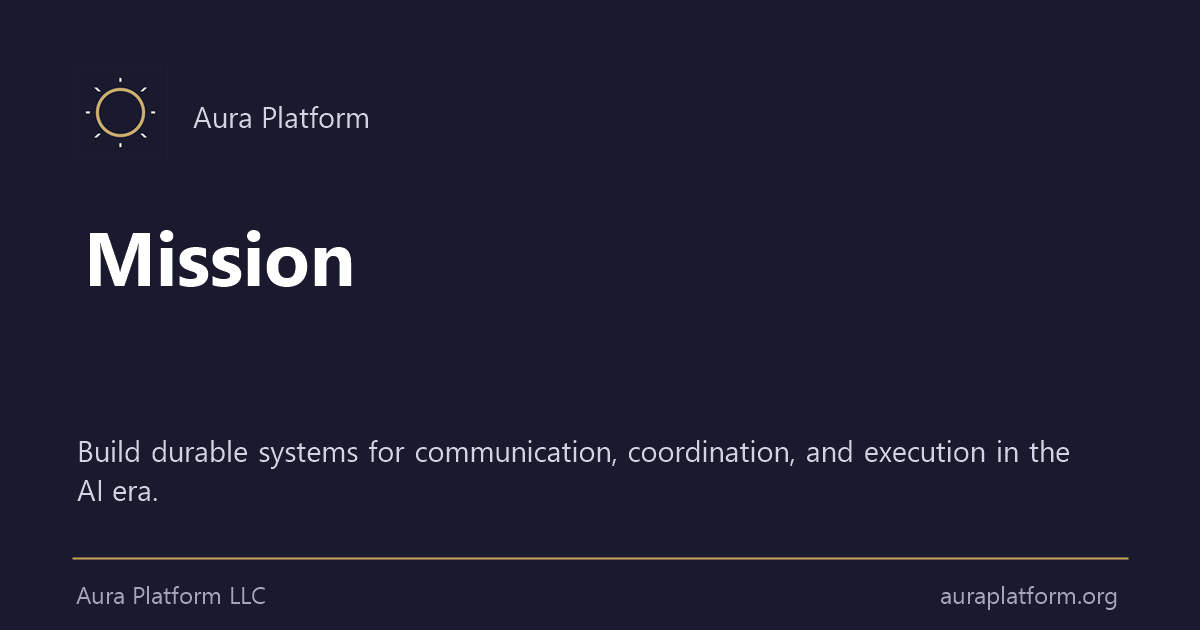
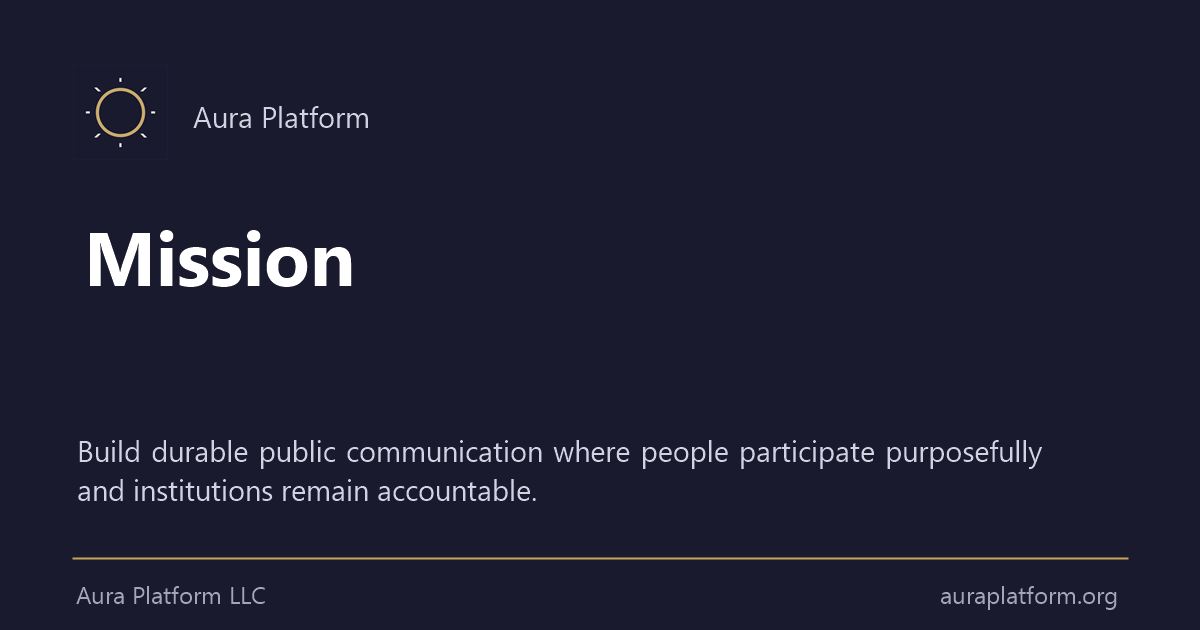
Say the mission once, and route public content to its own metadata
TWO THINGS, BOTH ABOUT A PAGE DISAGREEING WITH ITSELF.

── ONE MISSION SENTENCE ──────────────────────────────────────────────

/mission served one mission sentence in its metadata and a different one
in its social card picture. A third lived in the page hero, and the
committed card had been rendered from that one, so the page and its own
preview agreed with each other while both disagreed with the metadata
beside them. A fourth copy sat in a golden test, which would have kept a
superseded wording in the repository looking approved.

Nothing caught it because a mission sentence is prose, living in a Dart
string, a PowerShell string, an image and a governance document -- four
files no single check had read together.

Founder ruling, 2026-09-05, rejecting both circulating wordings: the
generic-technology one expressed no product identity, and the
institution-first one contradicted the public-first causal doctrine.
Frozen in their place, and now stated verbatim everywhere:

  Build durable public communication where people participate
  purposefully and institutions remain accountable.

Authority: representation/inventory/PRODUCT_IDENTITY_CANON.md, Company
Mission. Enforced by test/doctrine/mission_sentence_gate_test.dart,
which checks every surface, refuses both rejected wordings anywhere in
lib/tool/web/test, and reads the canon itself when the canon is
reachable. It is what found the golden.

── PUBLIC CONTENT ROUTES REACH THE RENDERER ──────────────────────────
[…]

Changed region(s): [[0.0617, 0.6937, 0.8942, 0.8143], [0.1233, 0.6937, 0.185, 0.7238]]

diff --git a/test/doctrine/mission_sentence_gate_test.dart b/test/doctrine/mission_sentence_gate_test.dart
@@ -1,0 +1,138 @@
+import 'dart:io';
+
+import 'package:flutter_test/flutter_test.dart';
+
+/// ONE MISSION SENTENCE — hard build failure.
+///
+/// ── WHAT WENT WRONG ─────────────────────────────────────────────────────────
+///
+/// Aura had two mission sentences in production at once, and the `/mission`
+/// route served BOTH: one in its metadata and a different one in its social
+/// card picture. A third lived in the page hero, and the committed card had
+/// been rendered from that one, so the page and its own preview agreed with
+/// each other while both disagreed with the metadata beside them.
+///
+/// Nothing caught it because a mission sentence is prose. It lives in a Dart
+/// string, a PowerShell string, an image, and a governance document — four
+/// files no single check ever read together.
+///
+/// ── THE DECISION ────────────────────────────────────────────────────────────
+///
+/// Founder ruling, 2026-09-05: both circulating wordings rejected. The
+/// generic-technology one ("durable systems for communication, coordination,
+/// and execution") expressed no product identity at all. The institution-first
+/// one ("the durable substrate institutions run on") contradicted the
+/// public-first causal doctrine. One sentence was frozen in its place:
+///
+///   representation/inventory/PRODUCT_IDENTITY_CANON.md → Company Mission
+///
+/// ── WHAT THIS GUARDS ────────────────────────────────────────────────────────
+///
+/// That every surface stating a mission states THAT sentence, verbatim. Not
+/// paraphrased, not shortened for a card, not expanded for a meta description.
+/// A paraphrase is how a second wording begins, and this file exists because
+/// two of them shipped.
+void main() {
+  /// The frozen sentence. Kept here as the assertion's subject; the canon is
+  /// the authority, and the last test checks this against it when the canon is
+  /// reachable.
+  const sentence =
+      'Build durable public communication where people participate '
+      'purposefully and institutions remain accountable.';
+
+  /// Every in-repository surface that states a mission.
+  ///
+  /// The card PNG is absent on purpose: no test can read a sentence out of an
+  /// image. What is guarded instead is the generator that draws it, and the
+  /// generated file is kept honest by the rule that all four cards are
+  /// rendered from that one script — verified by regenerating and comparing.
+  const surfaces = <String, String>{
+    'lib/screens/mission_screen.dart': 'the mission page hero',
+    'tool/web/generate_route_metadata.dart': 'the /mission route metadata',
+    'tool/web/generate_og_images.ps1': 'the mission social card generator',
+  };
+
+  /// Source wraps a long string across lines. Compare on words, not layout.
+  String flat(String s) => s
+      .replaceAll(RegExp(r"'\s*\n\s*'"), '')
+      .replaceAll(RegExp(r'\s+'), ' ');
+
+  group('mission sentence', () {
+    for (final entry in surfaces.entries) {
+      test('${entry.value} states it verbatim', () {
+        final file = File(entry.key);
+        expect(file.existsSync(), isTrue,
+            reason: '${entry.key} is missing. If it moved, update this gate '
+                'rather than deleting the rule.');
+        expect(
+          flat(file.readAsStringSync()),
+          contains(sentence),
+          reason: '\n[MISSION] ${entry.value} (${entry.key}) does not state '
+              'the frozen mission sentence.\n\n  $sentence\n\n'
+              'Authority: representation/inventory/PRODUCT_IDENTITY_CANON.md, '
+              'Company Mission, frozen by founder decision 2026-09-05. Do not '
+              'paraphrase it to fit — that is how the two rejected wordings '
+              'came to exist.',
+        );
+      });
+    }
+
+    test('neither rejected wording survives anywhere', () {
+      // Both were real, shipped, and each looked reasonable on its own page.
+      // Named here so a copy-paste from an old draft, a screenshot, or a
+      // git history read cannot quietly restore one.
+      const rejected = <String, String>{
+        'durable systems for communication':
+            'generic technology framing; expresses no product identity',
+        'the durable substrate institutions run on':
+            'institution-first; contradicts the public-first causal doctrine',
+      };
+
+      final violations = <String>[];
+      for (final dir in const ['lib', 'tool', 'web', 'test']) {
+        final root = Directory(dir);
+        if (!root.existsSync()) continue;
+        for (final f in root.listSync(recursive: true).whereType<File>()) {
+          if (f.path.endsWith('mission_sentence_gate_test.dart')) continue;
+          if (!const ['.dart', '.ps1', '.html', '.json', '.md']
+              .any(f.path.endsWith)) {
+            continue;
+          }
+          final lower = flat(f.readAsStringSync()).toLowerCase();
+          for (final bad in rejected.entries) {
+            if (lower.contains(bad.key)) {
+              violations.add('  ${f.path}\n      "${bad.key}" — ${bad.value}');
+            }
+          }
+        }
+      }
+
+      expect(violations..sort(), isEmpty,
+          reason: '\n[MISSION] A superseded mission wording is back:\n'
+              '${violations.join('\n')}\n\nThere is one mission sentence:\n'
+              '  $sentence\n');
+    });
+
+    test('the canon says the same thing, where the canon can be read', () {
+      // The authority is a governance document in a SEPARATE repository, which
+      // is present when this runs beside its siblings and absent inside the
+      // web image's build context. So it is checked when reachable and
+      // reported plainly when not, rather than being asserted conditionally in
+      // silence or breaking a build that legitimately cannot see it.
+      final canon = File(
+        '../../representation/inventory/PRODUCT_IDENTITY_CANON.md',
+      );
+      if (!canon.existsSync()) {
+        printOnFailure('canon not reachable from this checkout');
+        return;
+      }
+      expect(
+        flat(canon.readAsStringSync()),
+        contains(sentence),
+        reason: 'The canon no longer carries the sentence this gate enforces. '
+            'The canon wins: change the sentence here to match it, and every '
+            'surface with it.',
+      );
+    });
+  });
+}

diff --git a/tool/web/generate_route_metadata.dart b/tool/web/generate_route_metadata.dart
@@ -34,6 +34,27 @@ import 'dart:io';
 
 const _outputRoot = 'build/web';
 
+/// THE ONE PLACE THE SOCIAL ARTWORK'S VERSION IS DECIDED.
+///
+/// Social platforms cache a scraped image against its URL. The cards are
+/// committed under fixed file names, so correcting the artwork changes nothing
+/// a platform can see: Facebook keeps its copy until somebody re-scrapes, and
+/// LinkedIn holds one for about a week with no purge reachable from outside.
+/// A corrected card then looks like a correction that never shipped -- which
+/// is exactly what would have happened on 2026-09-05, when the default and
+/// mission cards were both replaced under their existing names.
+///
+/// Bump this when the ARTWORK changes. It is not a build hash and must not
+/// become one: a version that changes every deploy makes every platform
+/// re-fetch four unchanged images forever, and tells nobody anything.
+///
+/// Stamped over EVERY image URL in the bundle, the root shell included, so a
+/// bump cannot reach three of four places. `web/index.html` therefore carries
+/// the bare file name and a gate keeps it that way -- a version written there
+/// by hand would be a second authority, silently outranking this one on the
+/// most-served page in the product.
+const _socialAssetVersion = '2';
+
 /// Substitution map keyed by `data-aura-meta` attribute value. Keys
 /// MUST match the `data-aura-meta` markers in `web/index.html`.
 class _RouteMeta {
@@ -79,12 +100,9 @@ class _RouteMeta {
   final String? crawlerVisibleContactEmail;
 
   String get canonicalUrl => 'https://auraplatform.org$path';
-  /// Version-suffixed, matching `web/index.html` and the backend's
-  /// `ShareHtmlService.DEFAULT_OG_IMAGE`. A social platform caches a scraped
-  /// image against its URL, so an artwork change under an unchanged file name
-  /// keeps showing the old card for days -- about a week on LinkedIn, which
-  /// offers no purge. Bump all three together when the artwork changes.
-  String get imageUrl => 'https://auraplatform.org/social/$image?v=2';
+  /// Versioned from [_socialAssetVersion], never by hand.
+  String get imageUrl =>
+      'https://auraplatform.org/social/$image?v=$_socialAssetVersion';
 
   bool get hasCrawlerVisibleContent =>
       (crawlerVisibleHeading ?? '').trim().isNotEmpty;
@@ -110,8 +128,20 @@ const _routes = <_RouteMeta>[
   _RouteMeta(
     path: '/mission',
     title: 'Mission — Aura Platform LLC',
+    // THE CANONICAL MISSION SENTENCE, VERBATIM.
+    //
+    // Authority: representation/inventory/PRODUCT_IDENTITY_CANON.md, Company
+    // Mission, frozen by founder decision 2026-09-05. Two wordings were live
+    // before that and both were rejected — the institution-first one was here,
+    // the generic-technology one was in the mission page hero and the
+    // committed social card. So this route served one sentence in its
+    // metadata and a different one in its picture.
+    //
+    // Not paraphrased and not extended. A meta description that improves on
+    // the sentence is a second sentence.
     description:
-        'Build the durable substrate institutions run on — identity, accountability, continuity, human authority, operational memory — in an era where capability is abundant and continuity is scarce.',
+        'Build durable public communication where people participate '
+        'purposefully and institutions remain accountable.',
     image: 'og-mission.png',
     imageAlt: 'Aura Platform LLC — mission',
   ),
@@ -296,6 +326,20 @@ const _routes = <_RouteMeta>[
   ),
 ];
 
+/// Adds [_socialAssetVersion] to every `/social/` image URL in [html].
+///
+/// Idempotent by construction: any version already present is replaced rather
+/// than appended, so running the build twice cannot produce `?v=2?v=2`, and a
+/// stray hand-written version in the source is corrected rather than
+/// preserved. That is the point -- there is one authority for this value and
+/// it is the constant at the top of this file.
+String _stampSocialAssets(String html) {
+  return html.replaceAllMapped(
+    RegExp(r'(/social/[A-Za-z0-9._-]+\.png)(\?v=[A-Za-z0-9._-]+)?'),
+    (m) => '${m.group(1)}?v=$_socialAssetVersion',
+  );
+}
+
 /// Per-route value to substitute, keyed by `data-aura-meta`.
 Map<String, String> _substitutions(_RouteMeta r) {
   return {
@@ -442,10 +486,23 @@ Future<int> main(List<String> args) async {
     return 2;
   }
 
+  // THE ROOT SHELL IS STAMPED TOO, AND FIRST.
+  //
+  // It is the document every unversioned route is served from, and the one the
+  // backend fetches to render dynamic public routes. Stamping only the route
+  // variants would leave the most-served page pointing at an unversioned image
+  // -- the one URL whose cached copy matters most.
+  final stampedRoot = _stampSocialAssets(canonical);
+  await rootIndex.writeAsString(stampedRoot);
+  stdout.writeln(
+    'generate_route_metadata: stamped social assets in '
+    '$_outputRoot/index.html as v=$_socialAssetVersion.',
+  );
+
   var written = 0;
   for (final route in _routes) {
     final variant = _applySubstitutions(
-      canonical,
+      stampedRoot,
       _substitutions(route),
       route: route,
     );

diff --git a/web/index.html b/web/index.html
@@ -25,30 +25,49 @@
   <meta name="description" data-aura-meta="description" content="Aura is a public-first platform for civic discourse and accountable communication. People take part in purposeful communication that keeps its context, and institutions enter under clear identity, accountable for what they say officially.">
   <link rel="canonical" data-aura-meta="canonical" href="https://auraplatform.org/">
 
-  <meta name="robots" content="index, follow, max-image-preview:large">
+  <!-- SOCIAL IMAGE URLS ARE WRITTEN HERE WITHOUT A VERSION, DELIBERATELY.
+       tool/web/generate_route_metadata.dart stamps `?v=<n>` onto every
+       /social/ image in this file and in every route variant, from one
+       constant. A version typed here by hand would be a second authority for
+       it, on the most-served page in the product, and the two would part
+       company the first time only one was bumped.
+
+       Five more markers than the build-time generator uses, and that is
+       deliberate. A dynamic public route -- /articles/<slug> and its siblings
+       -- is answered by the backend with THIS file and its own metadata
+       substituted in, through the same data-aura-meta contract. The route
+       generator simply has nothing to say about these five, so it leaves them
+       alone and every static route keeps the values written here.
+
+       og:image's dimensions are the reason this mattered enough to mark. They
+       describe the DEFAULT card, and a crawler lays a card out from what the
+       page declares: an article cover of a different shape, announced as
+       1200x630, is cropped or dropped. The runtime substitution can now state
+       the real ones, or remove the tag when it does not know. -->
+  <meta name="robots" data-aura-meta="robots" content="index, follow, max-image-preview:large">
   <meta name="referrer" content="strict-origin-when-cross-origin">
   <meta name="theme-color" content="#1A1A2E">
   <meta name="color-scheme" content="dark light">
 
   <!-- ─── Open Graph (LinkedIn, Facebook, Discord, Slack) ─────────── -->
-  <meta property="og:type" content="website">
+  <meta property="og:type" data-aura-meta="og:type" content="website">
   <meta property="og:site_name" content="Aura Platform">
   <meta property="og:locale" content="en_US">
   <meta property="og:title" data-aura-meta="og:title" content="Aura Platform — Public-First Communication and Civic Discourse">
   <meta property="og:description" data-aura-meta="og:description" content="A public-first platform for civic discourse and accountable communication. People take part in purposeful communication that keeps its context; institutions enter under clear identity.">
   <meta property="og:url" data-aura-meta="og:url" content="https://auraplatform.org/">
-  <meta property="og:image" data-aura-meta="og:image" content="https://auraplatform.org/social/og-default.png?v=2">
-  <meta property="og:image:secure_url" data-aura-meta="og:image:secure_url" content="https://auraplatform.org/social/og-default.png?v=2">
-  <meta property="og:image:type" content="image/png">
-  <meta property="og:image:width" content="1200">
-  <meta property="og:image:height" content="630">
+  <meta property="og:image" data-aura-meta="og:image" content="https://auraplatform.org/social/og-default.png">
+  <meta property="og:image:secure_url" data-aura-meta="og:image:secure_url" content="https://auraplatform.org/social/og-default.png">
+  <meta property="og:image:type" data-aura-meta="og:image:type" content="image/png">
+  <meta property="og:image:width" data-aura-meta="og:image:width" content="1200">
+  <meta property="og:image:height" data-aura-meta="og:image:height" content="630">
   <meta property="og:image:alt" data-aura-meta="og:image:alt" content="Aura Platform — public-first civic discourse and accountable communication">
 
   <!-- ─── Twitter / X card ────────────────────────────────────────── -->
   <meta name="twitter:card" content="summary_large_image">
   <meta name="twitter:title" data-aura-meta="twitter:title" content="Aura Platform — Public-First Communication and Civic Discourse">
   <meta name="twitter:description" data-aura-meta="twitter:description" content="A public-first platform for civic discourse and accountable communication. People take part in purposeful communication that keeps its context; institutions enter under clear identity.">
-  <meta name="twitter:image" data-aura-meta="twitter:image" content="https://auraplatform.org/social/og-default.png?v=2">
+  <meta name="twitter:image" data-aura-meta="twitter:image" content="https://auraplatform.org/social/og-default.png">
   <meta name="twitter:image:alt" data-aura-meta="twitter:image:alt" content="Aura Platform — public-first civic discourse and accountable communication">
 
   <!-- ─── Mobile PWA hints ────────────────────────────────────────── -->

diff --git a/test/doctrine/public_first_causal_gate_test.dart b/test/doctrine/public_first_causal_gate_test.dart
@@ -182,6 +182,46 @@ void main() {
       }
     });
 
+    test('one place decides the social artwork version', () {
+      // A platform caches a scraped image against its URL, so correcting a
+      // card under its existing file name changes nothing anyone can see:
+      // Facebook keeps its copy until re-scraped, LinkedIn for about a week
+      // with no purge reachable from outside. Both the default and mission
+      // cards were replaced under their existing names on 2026-09-05, so the
+      // version suffix is what makes those corrections visible at all.
+      //
+      // The hazard is that the suffix is trivial to write by hand, and it was
+      // written by hand in three files before this. Three copies of a value
+      // whose whole job is to change together is three chances to bump two.
+      // So the shell carries the bare file name, the build stamps it, and
+      // this is what stops a hand-written one creeping back onto the page the
+      // product serves most.
+      final shell = File('web/index.html').readAsStringSync();
+      final social = RegExp(r'/social/[A-Za-z0-9._-]+\.png(\?[^"\s]*)?')
+          .allMatches(shell)
+          .map((m) => m.group(0)!)
+          .toList();
+
+      expect(social, isNotEmpty,
+          reason: 'the shell stopped naming a social card at all');
+      for (final url in social) {
+        expect(url.contains('?'), isFalse,
+            reason: '\n[SOCIAL VERSION] web/index.html writes a version into '
+                '"$url" by hand. The authority is _socialAssetVersion in '
+                'tool/web/generate_route_metadata.dart, which stamps this file '
+                'and every route variant at build time. A version here is a '
+                'second authority for the same value.');
+      }
+
+      final generator =
+          File('tool/web/generate_route_metadata.dart').readAsStringSync();
+      expect(generator, contains('_socialAssetVersion'));
+      // And it must actually be applied to the root, not only to variants.
+      // Stamping only the variants would leave the most-served document in
+      // the product pointing at an unversioned image.
+      expect(generator, contains('_stampSocialAssets(canonical)'));
+    });
+
     test('the scope list stays honest', () {
       // A surface silently dropped from the list would silently drop the rule.
       expect(_generalSurfaces.length, greaterThanOrEqualTo(15));

diff --git a/lib/screens/mission_screen.dart b/lib/screens/mission_screen.dart
@@ -21,8 +21,16 @@ class MissionScreen extends StatelessWidget {
   Widget build(BuildContext context) {
     final hero = AuraPublicationHero(
       eyebrow: 'Mission',
-      title: 'Durable systems for communication, '
-          'coordination, and execution.',
+      // THE CANONICAL MISSION SENTENCE, VERBATIM.
+      //
+      // Authority: representation/inventory/PRODUCT_IDENTITY_CANON.md, Company
+      // Mission, frozen by founder decision 2026-09-05. This hero previously
+      // carried a generic-technology framing that named no product identity at
+      // all — and it was the source of the wording on the committed mission
+      // social card, so the page and its own preview agreed with each other
+      // while both disagreed with the route metadata beside them.
+      title: 'Build durable public communication where people '
+          'participate purposefully and institutions remain accountable.',
       subtitle:
           'Aura Platform LLC builds infrastructure where identity, '
           'authority, and outcomes stay connected — across people, '

diff --git a/test/aura_publication_golden_test.dart b/test/aura_publication_golden_test.dart
@@ -162,8 +162,14 @@ Widget _missionGallery({required Size viewport}) {
       showSiteFooter: false,
       hero: AuraPublicationHero(
         eyebrow: 'Mission',
-        title: 'Durable systems for communication, '
-            'coordination, and execution.',
+        // The canonical mission sentence, verbatim, because a golden that
+        // renders superseded copy keeps that copy alive in the repository and
+        // reads as approved. Authority: PRODUCT_IDENTITY_CANON.md, Company
+        // Mission, frozen 2026-09-05. Enforced by
+        // test/doctrine/mission_sentence_gate_test.dart, which is what found
+        // this file.
+        title: 'Build durable public communication where people '
+            'participate purposefully and institutions remain accountable.',
         subtitle:
             'Aura Platform LLC builds infrastructure where identity, '
             'authority, and outcomes stay connected — across people, '
